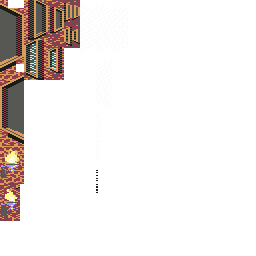
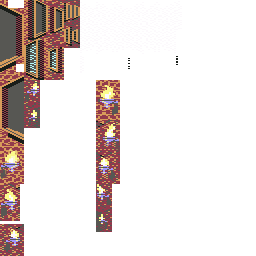
Implement unanimated torches on both sides.
git-svn-id: svn://192.168.0.200/Xle/trunk@100 8e2493a0-6f32-3e4d-a2e5-9abab0ebc7f0

diff --git a/Xle/XleMapTypes/MuseumDisplays/Exhibit.cs b/Xle/XleMapTypes/MuseumDisplays/Exhibit.cs
@@ -150,7 +150,14 @@ namespace ERY.Xle.XleMapTypes.MuseumDisplays
 					g.UpdateBottom(text, line);
 
 					if (waiting)
-						XleCore.wait(50);
+					{
+						if (AgateLib.InputLib.Keyboard.AnyKeyPressed)
+						{
+							XleCore.wait(1);
+						}
+						else
+							XleCore.wait(50);
+					}
 				}
 				else
 				{

diff --git a/Xle/XleMapTypes/Map3D.cs b/Xle/XleMapTypes/Map3D.cs
@@ -255,7 +255,8 @@ namespace ERY.Xle.XleMapTypes
 			destRect.X += mainDestRect.X;
 			destRect.Y += mainDestRect.Y;
 
-			Extras.Draw(srcRect, destRect);
+			if (srcRect.Width != 0 && srcRect.Height != 0)
+				Extras.Draw(srcRect, destRect);
 
 			AnimateExtra(extraType, loc, distance, destRect.Location);
 		}

diff --git a/Xle/XleCore.cs b/Xle/XleCore.cs
@@ -1286,8 +1286,10 @@ namespace ERY.Xle
 				};
 
 			PromptToContinue = PromptToContinueOnWait;
-
+			
+			Keyboard.ReleaseAllKeys();
 			Keyboard.KeyDown += keyhandler;
+
 			do
 			{
 				redraw();
